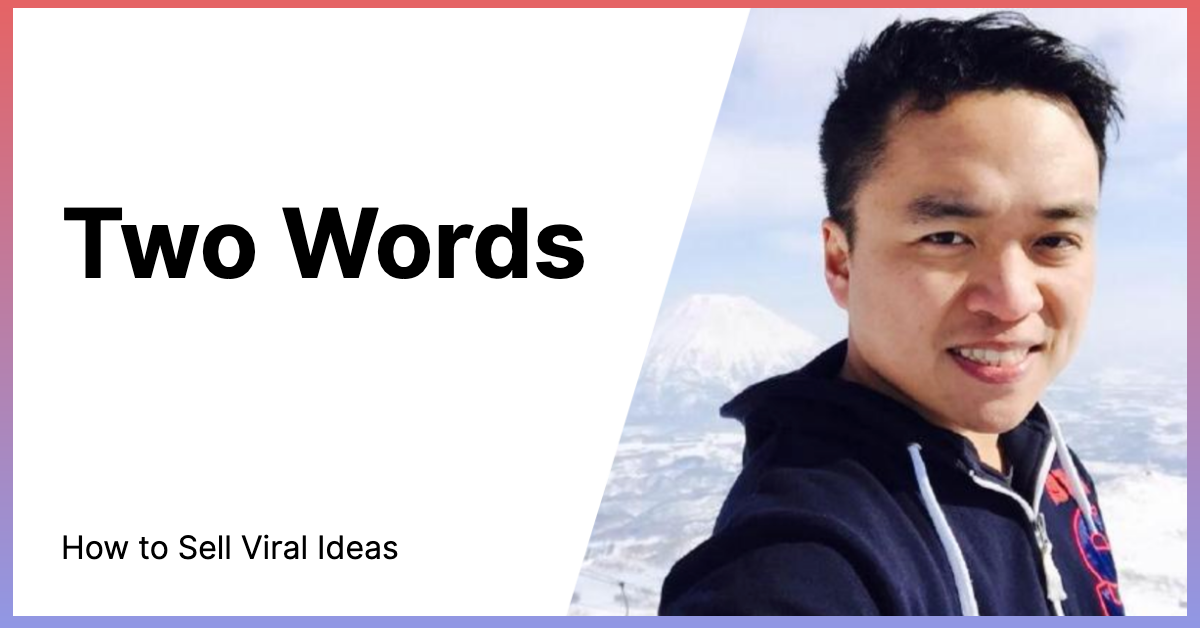
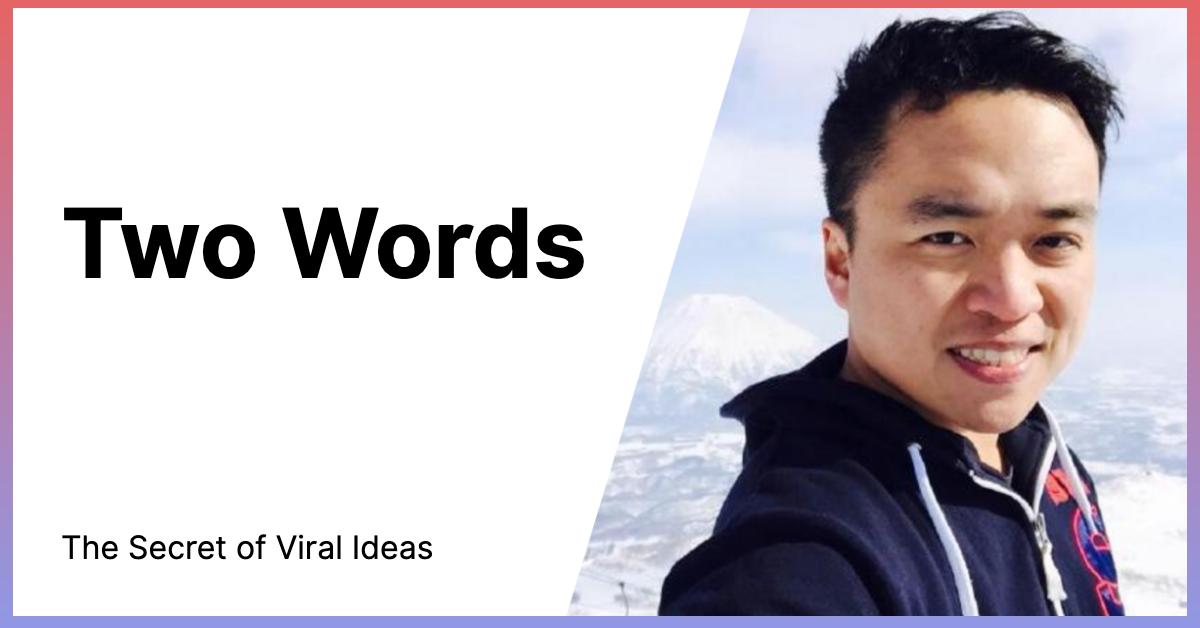
subtitles

Changed region(s): [[0.0308, 0.8471, 0.37, 0.9076]]

diff --git a/content/writing/nontechnical/two-words.md b/content/writing/nontechnical/two-words.md
@@ -1,6 +1,6 @@
 ---
 title: Two Words
-subtitle: How to Sell Viral Ideas
+subtitle: The Secret of Viral Ideas
 slug: two-words
 categories: ['Ideas', 'Marketing']
 description: The best way to sell to, brand, persuade, or inspire people is to condense your idea down to Two Words.
